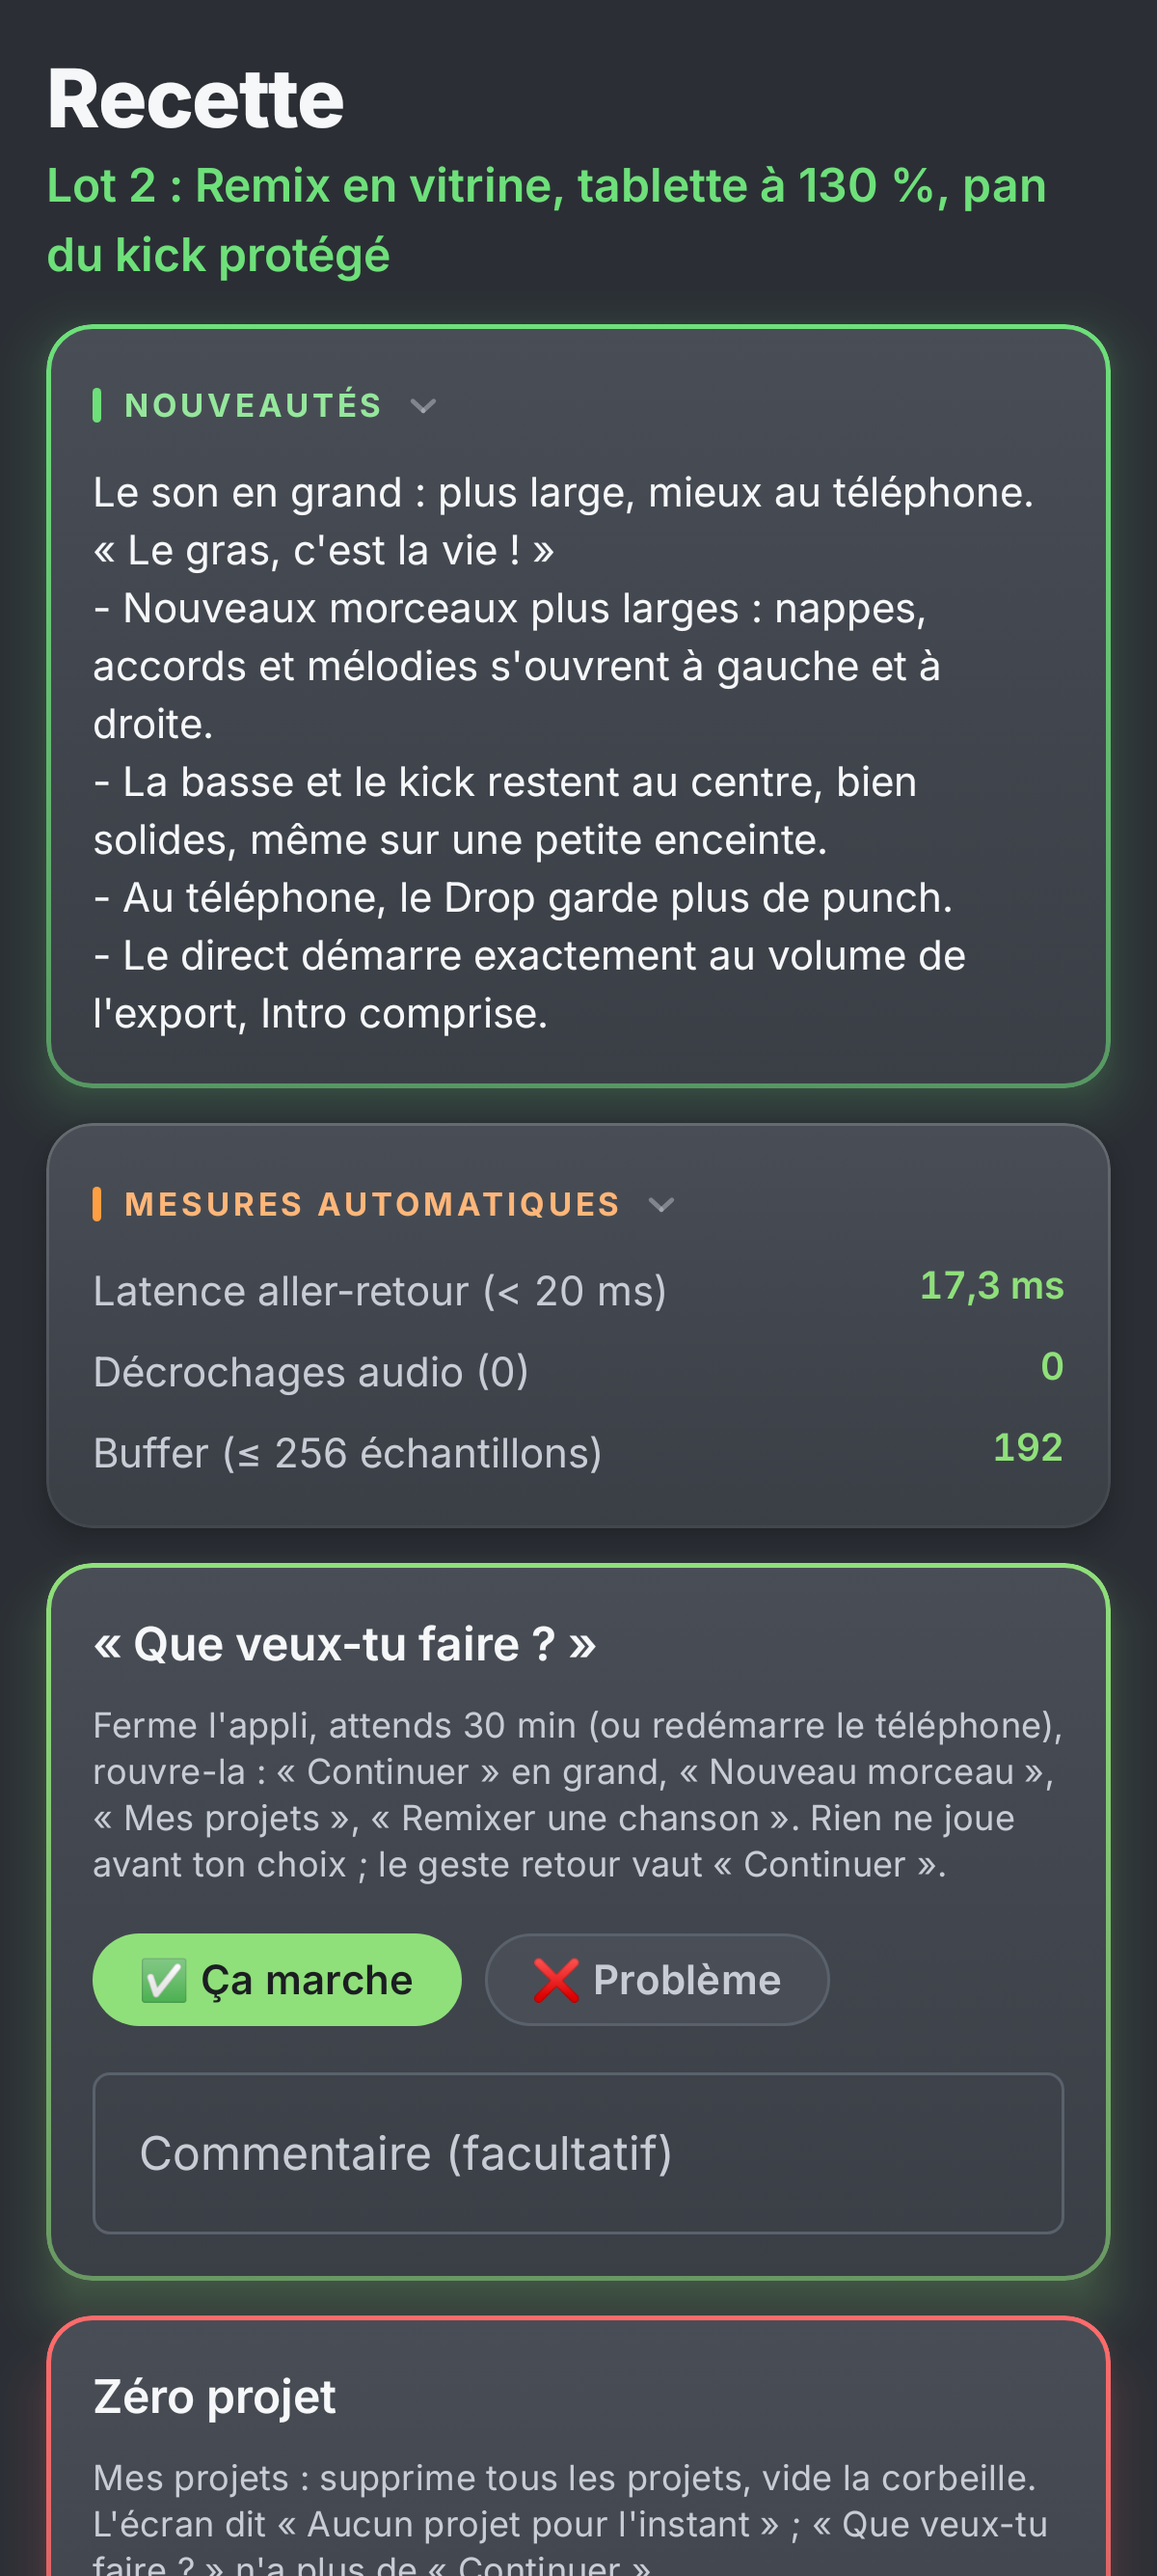
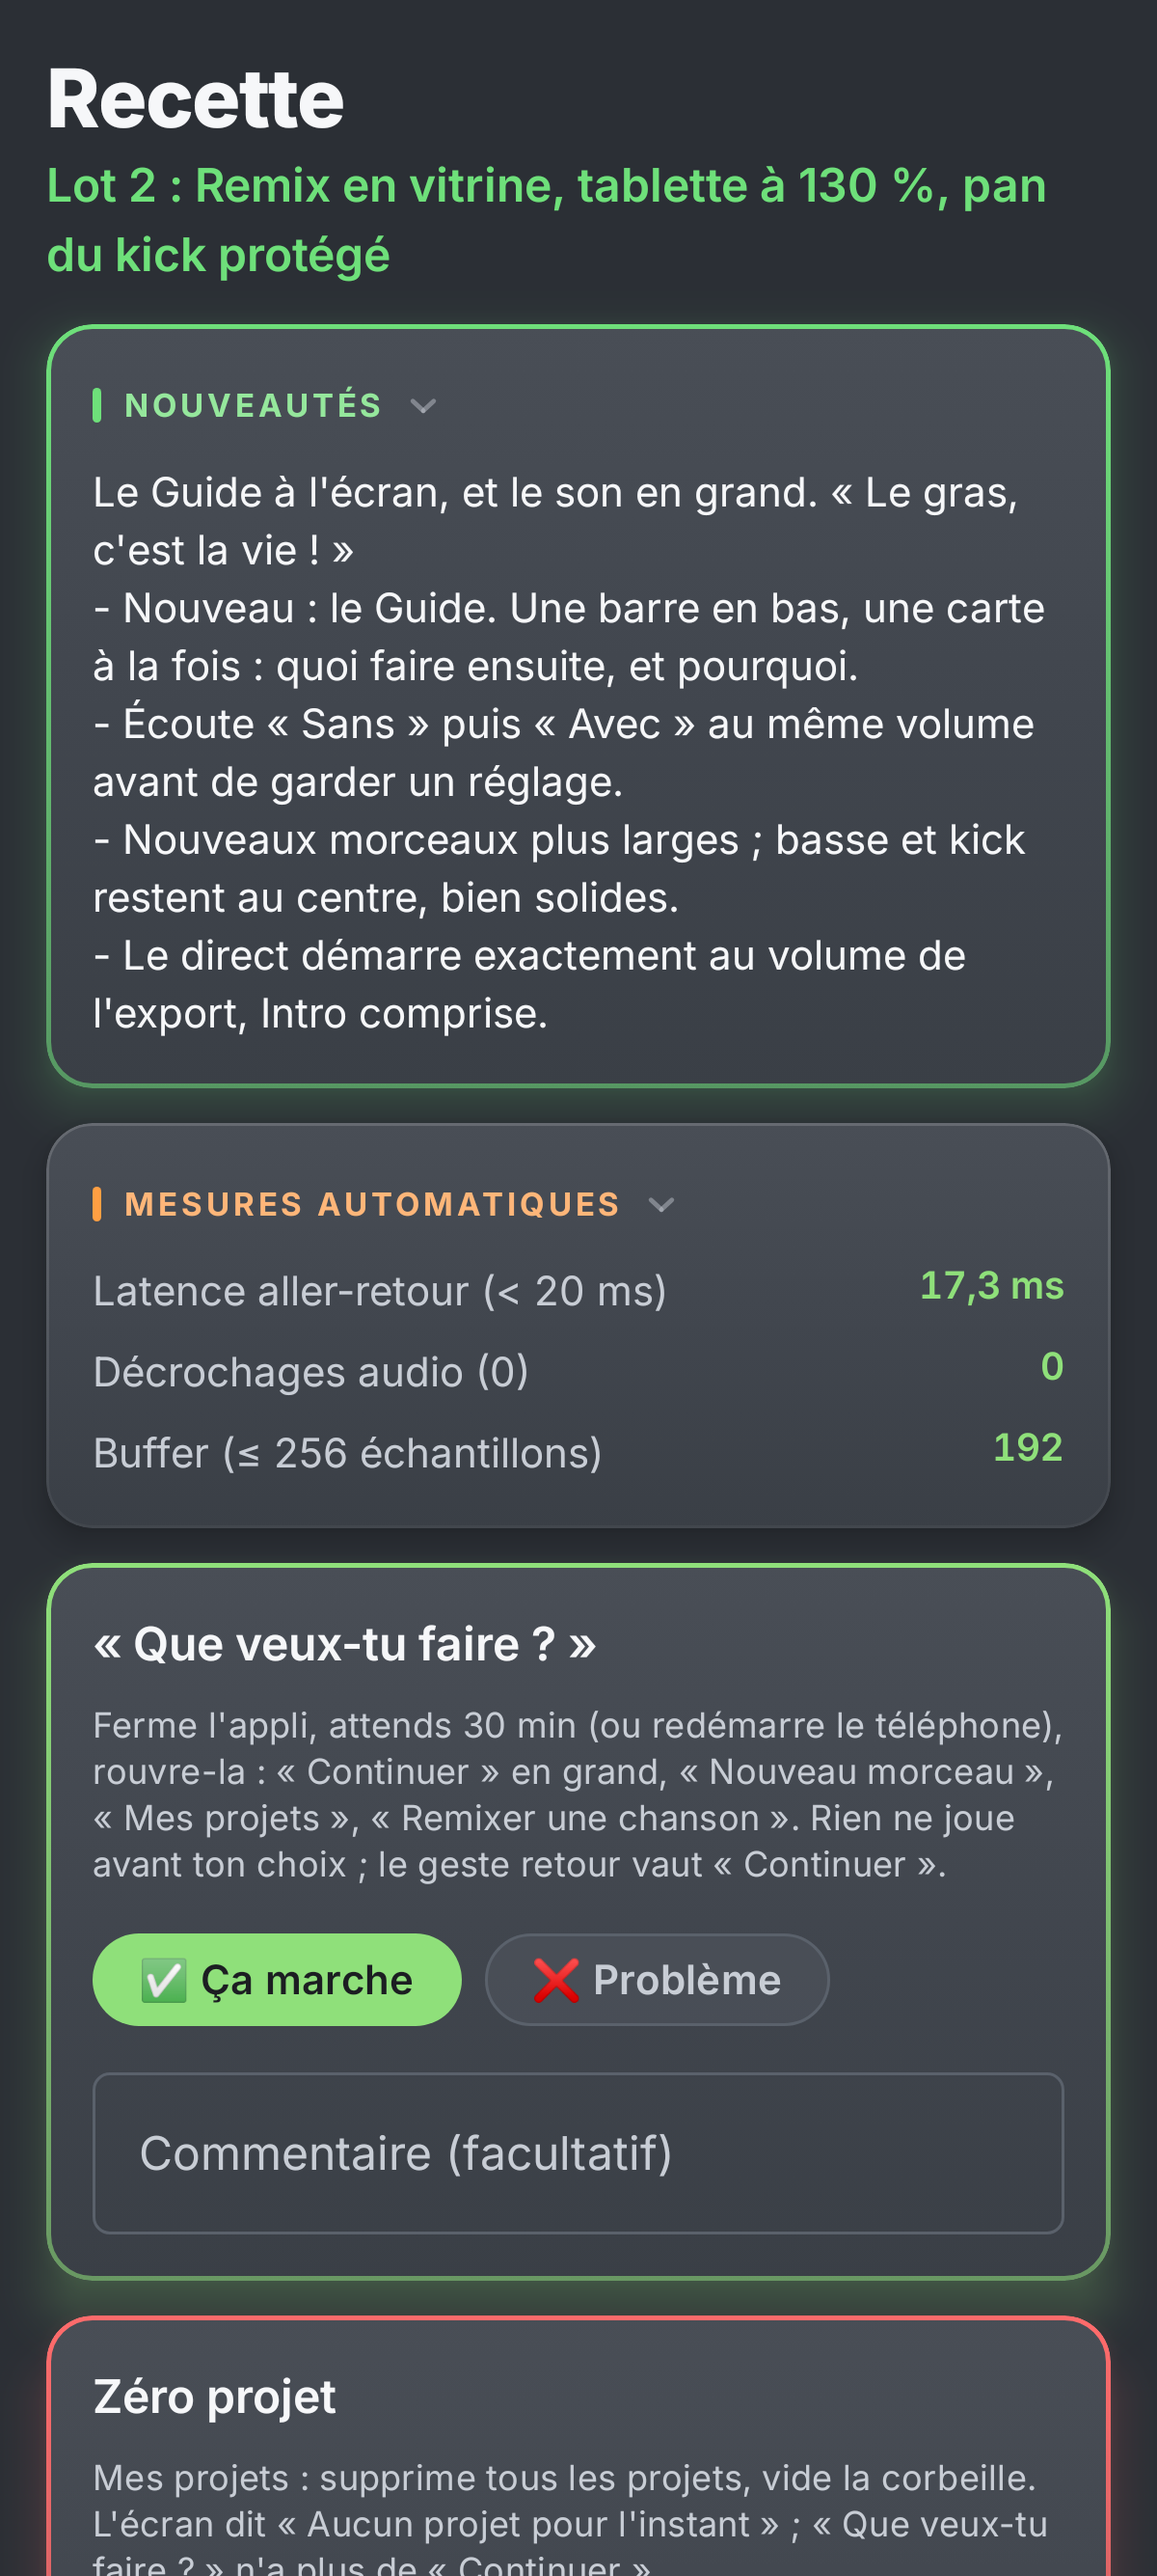
Guide G2 review: the A/B stops for a take, Live or the song; no replayed notice; no stale takes
Claude-Session: https://claude.ai/code/session_01NqonxZBBysqqWBbnsC2VTP

Changed region(s): [[0.0617, 0.1865, 0.8942, 0.373], [0.8633, 0.2798, 0.8942, 0.3109]]

diff --git a/app/src/main/java/com/pocketstudio/app/guide/GuideListen.kt b/app/src/main/java/com/pocketstudio/app/guide/GuideListen.kt
@@ -92,6 +92,8 @@ class GuideListen(
         val key = "$card/$option"
         job = scope.launch {
             val p = project()
+            // The takes of another song (or of this one before an edit) are let go: up to ~20 MB of sound.
+            if (cached?.second !== p) cached = null
             val hit = cached?.takeIf { it.first == key && it.second === p }?.third
             val rendered = hit ?: run {
                 val with = withContext(worker) { GuideActions.tryApply(p, card, option, clock()).project }
@@ -111,6 +113,11 @@ class GuideListen(
                 Rendered(Pcm(data, 2, OfflineExport.SAMPLE_RATE), starts).also { cached = Triple(key, p, it) }
             }
             if (_state.value?.let { it.card == card && it.option == option } != true) return@launch
+            // Rendered for a song that is no longer open: not played (G2 review).
+            if (project() !== p) {
+                _state.value = null
+                return@launch
+            }
             val started = player.play(rendered.pcm) { scope.launch { if (_state.value?.let { it.card == card && it.option == option } == true) clear() } }
             if (!started) {
                 _state.value = GuideListenUi(card, option, preparing = false, failed = true)

diff --git a/app/src/main/java/com/pocketstudio/app/ui/AppRoot.kt b/app/src/main/java/com/pocketstudio/app/ui/AppRoot.kt
@@ -1193,6 +1193,14 @@ fun AppRoot() {
     }
     DisposableEffect(guideListen) { onDispose { guideListen.stop() } }
     LaunchedEffect(guideOpen) { if (!guideOpen) guideListen.stop() }
+    // G2 review: the « Sans / Avec » never plays under a take, the Live page or the song started (the
+    // panel only hides there, it stays open).
+    val guideQuietRec by rhythmVm.recording.collectAsStateWithLifecycle()
+    val guideQuietTake by rhythmVm.audioRecording.collectAsStateWithLifecycle()
+    val guideQuietPlaying = rhythmVm.transport.collectAsStateWithLifecycle().value.playing
+    LaunchedEffect(guideQuietRec, guideQuietTake != null, showLive, guideQuietPlaying) {
+        if (guideQuietRec || guideQuietTake != null || showLive || guideQuietPlaying) guideListen.stop()
+    }
     val guideGo: (com.pocketstudio.app.guide.GuideGo) -> Unit = { g ->
         when (g) {
             is com.pocketstudio.app.guide.GuideGo.Tab -> {

diff --git a/app/src/main/java/com/pocketstudio/app/guide/GuideViewModel.kt b/app/src/main/java/com/pocketstudio/app/guide/GuideViewModel.kt
@@ -120,7 +120,8 @@ class GuideViewModel(
     /** The screens the options ask to open. */
     val opens: SharedFlow<GuideOpen> = _opens.asSharedFlow()
 
-    private val _notices = MutableSharedFlow<String>(replay = 1, extraBufferCapacity = 4)
+    // No replay: a notice closed does not come back after a rotation or on another song (G2 review).
+    private val _notices = MutableSharedFlow<String>(extraBufferCapacity = 4)
     /** What an action could not do, and why (« ce réglage a changé depuis… »), to show in a line. */
     val notices: SharedFlow<String> = _notices.asSharedFlow()
 

diff --git a/docs/REVIEW.md b/docs/REVIEW.md
@@ -990,3 +990,8 @@ Relecture neuve de la branche `basses` (rebasée sur `guide`) : 0 grave, 5 moyen
 ## S7 son : relecture neuve (2026-10-25)
 - Rien de grave. Corrigé : l'étalement rallumé (potard, automation) repart du silence, sans le bout d'audio d'avant ni de « tic » ; sa ligne tient en 4 Ko au lieu de 8 dans chaque emplacement d'effet (la plus longue prise, 912 échantillons, y tient à 48 kHz) ; un élargisseur posé avec deux réglages n'hérite plus de l'étalement du précédent ; commentaire faux sur les exports corrigé.
 - Reste (mineur) : l'étalement change sans lissage quand on tourne le potard (léger grésillement possible) ; en version 4 le clic du métronome n'est plus atténué par le fader du master ; la phase du chorus n'est pas remise à zéro au départ du transport (direct et export diffèrent un peu) ; pas de test qui éteint puis rallume l'étalement ni qui compare un rendu direct v3 bit à bit avec le fader sous l'unité.
+
+## Guide G2 : relecture neuve (2026-10-25)
+- Grave, corrigé : l'écoute « Sans / Avec » continuait pendant une prise (le panneau était seulement caché) ; elle s'arrête maintenant dès qu'une prise commence, sur la page Live et quand le morceau démarre.
+- Corrigé aussi : un message fermé ne revient plus après une rotation ni sur un autre morceau ; une écoute préparée pour un morceau qui n'est plus ouvert n'est pas jouée ; les prises d'écoute d'un autre morceau ne restent plus en mémoire.
+- Reste (mineur) : une action du Guide lancée sur un morceau peut se rejouer sur le suivant s'il vient de s'ouvrir (code G1) ; le Mode simple analyse deux fois par modification ; les cartes qui changent le niveau du master ou les courbes ne s'entendent pas dans l'écoute (▶ à cacher pour elles) ; une très longue écoute peut être refusée par le téléphone (« Écoute impossible », sans plantage) ; le réglage éclairé ne s'éteint pas au changement d'espace ; pas de test d'égalité de volume sur le chemin du Guide ni d'arrêt pendant la préparation.

diff --git a/docs/PROGRESS.md b/docs/PROGRESS.md
@@ -1,14 +1,14 @@
 # Avancement
 
 ## Où on en est (2026-10-25)
-- `main` = lot 2 fusionné (#50) après Guide G0/G1 (#49) et tests réels (#48). Chaque fusion publie l'APK (consigne de Benjamin : publier dès que possible).
-- En cours : une PR qui réunit basses qui tapent, leads lot 1 et passe son S6 (chacun relu à neuf).
+- `main` = PR #51 (basses + leads lot 1 + S6) ; APK 220 envoyé à Benjamin avec les extraits avant / après (« C'est parfait »).
+- En cours : une PR qui réunit S7 son (largeur, téléphone, direct = export en version de mix 4) et le Guide G2 (barre et panneau, une carte à la fois), chacun relu à neuf.
 
 ## Prochaine étape exacte
-1. CI verte de la PR son (basses + leads + S6), fusion, envoyer l'APK à Benjamin.
-2. Refaire les mesures (AUDIT-35 § 4), extraits « après » pour Benjamin, `recette.json` du jalon son.
-3. Restes S6 : largeur du Drop (chorus stéréo dans le moteur, versionné), perte au haut-parleur ≤ 4 LU, intros en direct à plus de 1 LU (11 styles).
-4. Guide G2 à G6, leads lots B à D, puis le chantier Play Store en dernier.
+1. CI verte de la PR S7 + G2, fusion, un seul APK pour Benjamin.
+2. Guide G3 (fiche de piste à cinq colonnes, éditeur de couches), puis G4 (étapes 3 à 6 en cartes), G5 (fusion des anciennes surfaces), G6 (vérification).
+3. Restes son : largeur de deep house, dubstep, neurofunk, phonk ; intros en direct de riddim et jersey club ; restes de relecture S6/S7 (REVIEW.md).
+4. Leads lots B à D, puis le chantier Play Store en dernier.
 
 **Phase 0 fusionnée le 2026-10-18, phase 1 fusionnée le 2026-10-19 (feu vert de Benjamin).** Phase en cours : 2 (sampler et notes).
 
